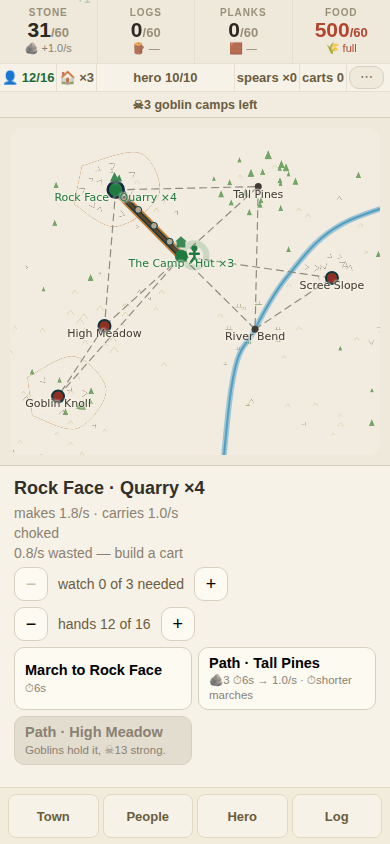
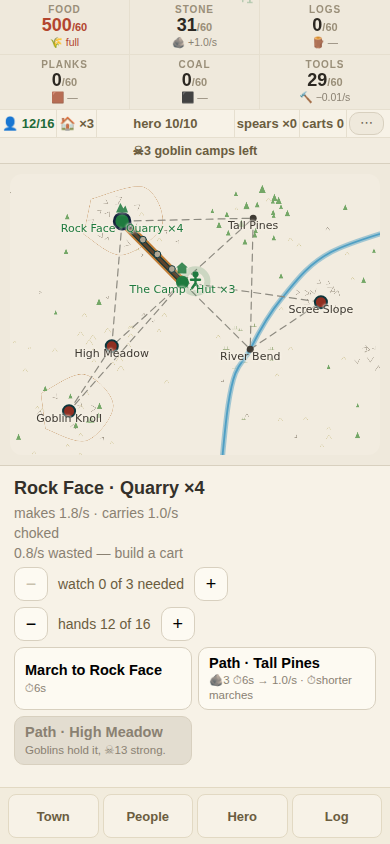
SIX GOODS, ONE GRID: coal and tools stop being second-class
The camp gained coal and tools and the HUD did not. Four goods sat across
the top; the two newest rungs of the chain were a <p class="note"> inside
the People sheet. Planks pinned, coal exiled -- and the reason was that
`.hud` is `repeat(4, 1fr)`, which is a fact about a stylesheet and not a
fact about the game.

Three columns and two rows now, in production-chain order: food, stone,
logs, planks, coal, tools. Fixed, and NEVER sorted at runtime -- a
counter that moves when the game changes is a counter you cannot learn
the position of, and this HUD exists in the first place because the owner
could not find things. Food leads because it is the one that kills you.

Not six across: an emoji is a decoration on a word and never a
replacement for it (the owner, twice), so every cell carries its noun,
and six nouns do not fit 390px.

SIX CELLS COST A ROW AND THE MAP PAID FOR IT. The header went 116px to
164px and the board lost 48px of 355. Thirty of those came back by
tightening the cells -- padding 7/8 to 4/5, the number 21px to 18px --
and all three states the HUD is built around still read: `full` in red, a
red STARVING, and the rate.

Six hand-written cell blocks became one `goodCells` derived, so a seventh
good is a line of data rather than twelve lines of markup. Tools are the
one good that only ever goes down, so their line says what wear costs
instead of borrowing the `+` every other cell uses, and an empty rack
reads as hurt because it is a 40% cut to every works.
[…]

Changed region(s): [[0.0615, 0.0, 0.9846, 0.5545], [0.0, 0.0, 0.2462, 0.154], [0.9231, 0.1232, 0.9538, 0.154]]

diff --git a/src/ui/Camp.svelte b/src/ui/Camp.svelte
@@ -127,6 +127,53 @@
   const planksNow = $derived(
     game.logs > 0.05 ? f.planks : Math.min(f.planks, f.logs));
 
+  /** ★★★ THE SIX GOODS, RANKED AND DECLARED ONCE — 2026-08-14. Six cells that
+   *  used to be four hand-written blocks and a note buried in a sheet. The
+   *  order is the PRODUCTION CHAIN, fixed, and never sorted at runtime: a
+   *  counter that moves when the game changes is a counter you cannot learn
+   *  the position of, and this HUD exists because the owner could not find
+   *  things. Food leads because it is the one that kills you.
+   *
+   *  Each cell says the same three things it always did — the noun, the stock
+   *  over the ceiling, and what it is doing per second — so the three states
+   *  the HUD comment below insists on (full, starving, the rate) survive the
+   *  regrid. `mark` is the marks table, never a second hand-typed icon. */
+  const goodCells = $derived<Array<{ id: string; cap: string; mark: string;
+    have: number; note: string; state: 'brim' | 'hurt' | null }>>((() => {
+    const rate = (n: number): string => n > 0.001 ? `+${n.toFixed(1)}/s` : '—';
+    return [
+      { id: 'food', cap: 'FOOD', mark: MARK.food, have: game.food,
+        state: f.starving ? 'hurt' : brim(game.food) ? 'brim' : null,
+        note: f.starving ? 'STARVING' : brim(game.food) ? 'full'
+          : `${hunger(game) > 0 ? `−${hunger(game).toFixed(1)}/s` : ''}${
+            f.food > 0 ? ` +${f.food.toFixed(1)}/s` : ''}`.trim() || '—' },
+      { id: 'stone', cap: 'STONE', mark: MARK.stone, have: game.stone,
+        state: brim(game.stone) ? 'brim' : null,
+        note: brim(game.stone) ? 'full' : rate(f.stone) },
+      { id: 'logs', cap: 'LOGS', mark: MARK.logs, have: game.logs,
+        state: brim(game.logs) ? 'brim' : null,
+        note: brim(game.logs) ? 'full' : rate(f.logsIn) },
+      { id: 'planks', cap: 'PLANKS', mark: MARK.planks, have: game.planks,
+        state: brim(game.planks) ? 'brim' : null,
+        note: brim(game.planks) ? 'full' : rate(planksNow) },
+      { id: 'coal', cap: 'COAL', mark: MARK.coal, have: game.coal,
+        state: brim(game.coal) ? 'brim' : null,
+        note: brim(game.coal) ? 'full' : rate(f.coal) },
+      // ⚠ TOOLS ARE THE ONE GOOD THAT ONLY GOES DOWN, so the rate line says
+      // what wear is costing rather than borrowing the `+` every other cell
+      // uses. An empty rack is not a shortage like the others either — it is
+      // a 40% cut to every works, which is why it reads as hurt.
+      { id: 'tools', cap: 'TOOLS', mark: MARK.tools, have: game.tools,
+        state: game.tools <= 0 ? 'hurt' : brim(game.tools) ? 'brim' : null,
+        // ⚠ ONE WORD, because 130px of cell holds about twenty characters and
+        // "NONE, works at 60%" came back from the screenshot as "NONE, works
+        // at 6…". What an empty rack COSTS is a sentence, and it is in the
+        // People sheet where there is room for a sentence.
+        note: game.tools <= 0 ? 'NONE'
+          : f.tools > 0.0001 ? `−${f.tools.toFixed(2)}/s` : 'holding' },
+    ];
+  })());
+
   // ★★ +1 POPS over the camp, NAMED — 2026-08-10 (playtest). The owner:
   // *"I also don't see plus one pop up with the appropriate icon once the
   // resource is mined."* It watched stone alone and floated a bare `+1`, so
@@ -1080,64 +1127,32 @@
          STARVING town (every works but the farms halts), and the tap rate
          on stone. A HUD that looks better and hides those is worse. -->
     <div class="hud goods">
-      <div class="cell" class:brim={brim(game.stone)} data-q="stone">
-        {#each bumps.filter((b) => b.good === 'stone') as b (b.id)}
-          <span class="bump"
-            onanimationend={() => {
-              recentBumps = recentBumps.filter((x) => x.id !== b.id);
-              bumps = recentBumps;
-            }}
-            >+1</span>
-        {/each}
-        <span class="cap">STONE</span>
-        <b>{Math.floor(game.stone)}<span class="cap-of">/{roomOf(game)}</span></b>
-        <em>🪨 {brim(game.stone) ? 'full'
-          : f.stone > 0 ? `+${f.stone.toFixed(1)}/s` : '—'}</em>
-      </div>
-      <div class="cell" class:brim={brim(game.logs)} data-q="logs">
-        {#each bumps.filter((b) => b.good === 'logs') as b (b.id)}
-          <span class="bump"
-            onanimationend={() => {
-              recentBumps = recentBumps.filter((x) => x.id !== b.id);
-              bumps = recentBumps;
-            }}
-            >+1</span>
-        {/each}
-        <span class="cap">LOGS</span>
-        <b>{Math.floor(game.logs)}<span class="cap-of">/{roomOf(game)}</span></b>
-        <em>🪵 {brim(game.logs) ? 'full'
-          : f.logsIn > 0 ? `+${f.logsIn.toFixed(1)}/s` : '—'}</em>
-      </div>
-      <div class="cell" class:brim={brim(game.planks)} data-q="planks">
-        {#each bumps.filter((b) => b.good === 'planks') as b (b.id)}
-          <span class="bump"
-            onanimationend={() => {
-              recentBumps = recentBumps.filter((x) => x.id !== b.id);
-              bumps = recentBumps;
-            }}
-            >+1</span>
-        {/each}
-        <span class="cap">PLANKS</span>
-        <b>{Math.floor(game.planks)}<span class="cap-of">/{roomOf(game)}</span></b>
-        <em>🟫 {brim(game.planks) ? 'full'
-          : planksNow > 0 ? `+${planksNow.toFixed(1)}/s` : '—'}</em>
-      </div>
-      <div class="cell" class:hurt={f.starving} class:brim={brim(game.food) && !f.starving}
-        data-q="food">
-        {#each bumps.filter((b) => b.good === 'food') as b (b.id)}
-          <span class="bump"
-            onanimationend={() => {
-              recentBumps = recentBumps.filter((x) => x.id !== b.id);
-              bumps = recentBumps;
-            }}
-            >+1</span>
-        {/each}
-        <span class="cap">FOOD</span>
-        <b>{Math.floor(game.food)}<span class="cap-of">/{roomOf(game)}</span></b>
-        <em>🌾 {f.starving ? 'STARVING' : brim(game.food) ? 'full'
-          : `${hunger(game) > 0 ? `−${hunger(game).toFixed(1)}/s` : ''}${
-            f.food > 0 ? ` +${f.food.toFixed(1)}/s` : ''}`.trim() || '—'}</em>
-      </div>
+      <!-- ★★★ ALL SIX GOODS, ONE GRID — 2026-08-14, step 3 of the restructure.
+           The camp gained coal and tools and the HUD did not: four goods sat
+           across the top and the other two were a `<p class="note">` inside
+           the Town sheet, so the two NEWEST rungs of the chain were the two
+           you could not see. Planks pinned, coal exiled.
+
+           Three columns and two rows, so a good's place never depends on how
+           the game is going. ⚠ NOT six across: an emoji is a decoration on a
+           word and never a replacement for it (the owner, twice), so every
+           cell has to carry its noun, and six nouns do not fit 390px. -->
+      {#each goodCells as g (g.id)}
+        <div class="cell" class:brim={g.state === 'brim'} class:hurt={g.state === 'hurt'}
+          data-q={g.id}>
+          {#each bumps.filter((b) => b.good === g.id) as b (b.id)}
+            <span class="bump"
+              onanimationend={() => {
+                recentBumps = recentBumps.filter((x) => x.id !== b.id);
+                bumps = recentBumps;
+              }}
+              >+1</span>
+          {/each}
+          <span class="cap">{g.cap}</span>
+          <b>{Math.floor(g.have)}<span class="cap-of">/{roomOf(game)}</span></b>
+          <em>{g.mark} {g.note}</em>
+        </div>
+      {/each}
     </div>
     <div class="hud standings">
       <span class="cell" class:lv={game.pop < cap} data-q="people"
@@ -1433,17 +1448,17 @@
           · {(f.staff * 100).toFixed(0)}% of the works manned</p>
         <p class="note">{MARK.food}{f.food.toFixed(1)}/s brought in
           · {hunger(game).toFixed(1)}/s eaten</p>
-        <!-- ★★★ COAL AND TOOLS, 2026-08-11. They live here rather than in the
-             top row because that row is four columns of the goods you WATCH;
-             these two are a chain you tend now and then. ⚠ The tool line is
-             the one that matters: it is the only cost in this economy that
-             grows with the size of the town rather than with what it buys. -->
-        <p class="note">{MARK.coal}{Math.floor(game.coal)} coal
-          · {MARK.tools}{Math.floor(game.tools)} tools, wearing
-          {(f.tools * 60).toFixed(1)} an hour</p>
+        <!-- ⚠ COAL AND TOOLS LEFT THIS SHEET, 2026-08-14 — they are two of
+             the six goods and they are in the goods grid with the other four.
+             The reason they were here was that the grid held four columns,
+             which is a fact about a stylesheet and not about the game. What
+             stays is the WEAR, per hour, because that is the one cost in this
+             economy that grows with the size of the town rather than with
+             what it buys, and a per-second figure in the HUD hides it. -->
+        <p class="note">{MARK.tools}the tools wear {(f.tools * 60).toFixed(1)} an hour</p>
         {#if game.tools <= 0}
-          <p class="note">{MARK.waste}the tools are gone — every works is
-            running at {Math.round(TOOLLESS * 100)}%</p>
+          <p class="note">{MARK.waste}the tools are gone. Every works is
+            running at {Math.round(TOOLLESS * 100)}%.</p>
         {/if}
         {#if guardsTotal(game) > 0}
           <p class="note">{MARK.danger}{guardsTotal(game)} standing watch — they do not work</p>
@@ -1605,6 +1620,23 @@
      this HUD replaced. */
   .hud { display: grid; grid-template-columns: repeat(4, minmax(0, 1fr));
     align-items: stretch; }
+  /* ★ THREE ACROSS, TWO DOWN — six goods, and every one of them keeps its
+     noun. The row rule has to go with it: with two rows, `:last-child` only
+     clears the border on the sixth cell and left a rule hanging off the
+     third. `nth-child(3n)` is the right-hand edge of both rows. */
+  .hud.goods { grid-template-columns: repeat(3, minmax(0, 1fr)); }
+  /* ⚠ SIX CELLS COST A ROW, AND THE MAP PAID FOR IT. The grid went from one
+     row to two and the board lost 62px of a 295px map — so the cells are
+     tighter than the four-across ones were: less padding, a smaller number.
+     Measured: 62px a row down to 47px, which buys 30px of the 62 back. The
+     three states still read (`full` in red, `STARVING`, the rate). */
+  .hud.goods .cell { padding: 4px 2px 5px; }
+  .hud.goods .cell b { font-size: 18px; }
+  .hud.goods .cap-of { font-size: 11px; }
+  .hud.goods .cell em { font-size: 10.5px; }
+  .hud.goods .cell { border-bottom: 1px solid #e6dfcf; }
+  .hud.goods .cell:nth-child(3n) { border-right: 0; }
+  .hud.goods .cell:nth-child(n + 4) { border-bottom: 0; }
   .hud .cell { display: flex; flex-direction: column; align-items: center;
     gap: 1px; padding: 7px 2px 8px; border: 0; border-right: 1px solid #e6dfcf;
     background: none; font: inherit; text-align: center; min-width: 0; }

diff --git a/docs/DECISIONS.md b/docs/DECISIONS.md
@@ -1861,3 +1861,4 @@ Entries above this line are long because the one-line rule did not exist yet.
 - 2026-08-09 — **THE GOBLINS COME AT YOU** (owner, asked what the game's goal is: *"i feel like we need to add attacking goblins and then make hero lose and restart stronger or something"* — this is the first half). Held ground used to sit there and heal, making the map a to-do list of six fights at your leisure; a holding that can take something back is a CLOCK, and it makes the hero matter between fights. A holding whose neighbour is yours AND has something on it fills over RAID_SECS 300, comes for the fullest thing it can reach, and takes one building; a holding with nothing in reach never fills, so the early camp is not besieged from minute one, and liberating ground stops that clock for good. ⚠ IT MUST NOT PUNISH ABSENCE — `docs/BRIEF.md` standing constraint — so menace BUILDS while away and CANNOT LAND: a raid due offline waits at the gate, full, and breaks on the first watched tick. Twelve hours away is 144 raids' worth and not one lands. Visible on the holding's panel (`☠12 · own path to camp · ⚠99% → The Camp`) and as a swelling dot. ⚠ The first cut of that line returned early with only the menace and silently dropped the prize, breaking the gates-advertise-their-artery check — added to the line now, not in front of it. STILL MISSING: the second half, the hero losing and the restart-stronger loop, which is the actual goal state.
 - 2026-08-09 — **LOSE THE VALLEY, KEEP THE VETERAN** (second half of *"make hero lose and restart stronger"*; the game has a goal state now). FIRST BLOOD STARTS THE WAR — the goblins ignore a camp that has never touched them, which fixes an opening five minutes that were a siege you had no hero for. A raid takes a building; with nothing left to burn it takes the GROUND, so a stripped site becomes theirs and the barrier shrinks. They eat inward — fullest thing standing, then bare ground, THE CAMP LAST — and that ordering is the length of a run. Camp falls → `lost`, the board stops ticking, and a full-screen THE VALLEY IS LOST ends it (the owner's old complaint: *"I think I won, but it wasn't clear"*). The veteran carries `floor(arms/2)+1` as a MAXIMUM against what you had, so a short run can never make you weaker — failure is a plateau. ⚠ THREE BUGS SHAKEN OUT BY CHECKS: `heroMax` was `originals − current holdings` and ran BACKWARDS once a raid could add a holding (counts `taken` now); the save door checked every goblin key against the six original holdings, so a run the goblins were winning was REFUSED ON RELOAD and silently wiped (any real site is legal now); and `raidTarget` preferred the camp among bare sites, the exact opposite of the sentence commented above it.
 - 2026-08-14 — **THE WAR CAME OFF THE STATS STRIP AND ONTO THE BOARD** (owner, playtest 3, reading the header mid-game: *"it's a stupid thing to have in the same… you know, this is a stats menu. Why is it there?"*, and of the raids themselves: *"there is no clear visual indicator that they are attacking on a path."* One answer to both.) The header line carried five facts — the fullest raid's percentage, its target, the hero's whereabouts, camps left, and the swell. Four of them are facts about PLACES, so they went where places are. **The fuse**: a faint dotted cord runs the whole road from the first spark (the old threat line waited until half full, so the first half of every raid was invisible), and a solid burn covers `menace` of it from the holding, head at the tip — *how close* drawn as a length on the ground it threatens. **The reticle**: a ring on what it is coming for, thickening as the fuse nears, doubling past 85%, GREEN when the hero or three guards hold it. Covered ground **dims the fuse and never hides it** — a guard does not stop the clock, and hiding it would say otherwise. The swept muster arc is deleted: it said the same 0→1 the fuse says, beside a dot that already swells with menace, which was three drawings of one number on one dot. The swell moved to each holding's own panel, where the number it inflates is (`spawnOf` refills to a ceiling that rises, so "48 strong" already IS the swell). The header keeps the goal and the ambush, which is the one piece of war news that happened rather than standing. ⚠ The old probe check could not see this drawing at all — it counted `foe` ink over the whole run, and the cord runs full length from the start, so a fuse stuck at zero and one burnt to the end count the same samples. It is near-band-against-far-band on one seed now (21/21 vs 6/21 at half full; 21/21 far at 97%), which also removes the layout drift the old check had to comment around. Both sabotages run: full-length fuse → far 21/21 at 50%, red; no fuse at all → near 7/21, red.
+- 2026-08-14 — **ALL SIX GOODS ARE IN THE HUD** (step 3 of the restructure; the owner, on the shape of the whole screen: *"we need to gather all of our features, see where they are, and kinda reshuffle things"*). The camp gained coal and tools and the HUD did not: four goods sat across the top and the two NEWEST rungs of the chain were a `<p class="note">` inside the People sheet. Planks pinned, coal exiled — and the reason was that `.hud` was `repeat(4, 1fr)`, which is a fact about a stylesheet and not about the game. Three columns and two rows now, in PRODUCTION-CHAIN order (food, stone, logs, planks, coal, tools), fixed, **never sorted at runtime**: a counter that moves when the game changes is a counter you cannot learn the position of, and this HUD exists because the owner could not find things. Food leads because it is the one that kills you. ⚠ SIX CELLS COST A ROW AND THE MAP PAID: the header went 116px → 164px and the board lost 48px of 355. Bought 30px of it back by tightening the cells (padding 7/8 → 4/5, the number 21px → 18px) and kept all three states the HUD comment insists on — `full` in red, `STARVING`, and the rate. Six hand-written cell blocks became one `goodCells` derived, so a seventh good is a line of data. Tools are the one good that only goes down, so their line says what wear costs rather than borrowing the `+`; an empty rack reads as hurt because it is a 40% cut to every works. ⚠ `NONE, works at 60%` came back from the screenshot clipped to `NONE, works at 6…` — 130px of cell holds about twenty characters — so the cell says `NONE` and the sentence lives in the People sheet, where there is room for a sentence. ⚠ AND THE FUSE CHECK FROM THIS MORNING TURNED OUT TO BE FRAGILE, caught because this change moved the map four pixels: it counted `foe` pixels in a band, and the faint dotted cord runs the whole length with dashes 4 on and 7 off against a 7px sampling window, so the far band read 6/21 on one build and 13/21 on the next with the drawing untouched. It measures the one thing the cord cannot fake now — the fuse is UNBROKEN from the holding and the cord is not — walking out until the ink stops: 62% burnt at half full, 98% at 97%. Both sabotages re-run against the new check, plus a third (coal deleted from the grid).

diff --git a/docs/NEXT.md b/docs/NEXT.md
@@ -9,9 +9,9 @@ streamlined."* Five steps, in the order they were agreed. **One per session.**
 | # | step | state |
 |---|---|---|
 | 1 | **The dock** — place is what the map gives you, town/people/hero/log are sheets over it | ✅ `a808387` |
-| 2 | **The war off the stats strip, onto the board** — the fuse, the reticle, the goal alone in the header | ✅ this session |
-| 3 | **One ranked readout row** — food and people pinned, the rest behind a Stores cell | ⬜ next |
-| 4 | **Three standing objectives, one free skip** — the Fallout Shelter steal the teardown ranked #1 | ⬜ |
+| 2 | **The war off the stats strip, onto the board** — the fuse, the reticle, the goal alone in the header | ✅ `5e547e0` |
+| 3 | **All six goods in the HUD** — three columns, two rows, chain order, food first | ✅ this session |
+| 4 | **Three standing objectives, one free skip** — the Fallout Shelter steal the teardown ranked #1 | ⬜ next |
 | 5 | **More jobs for people** — haulers, builders. The real answer to "no point in more people" | ⬜ |
 
 Then: incidents that spread along roads; expeditions with recall. Still open
